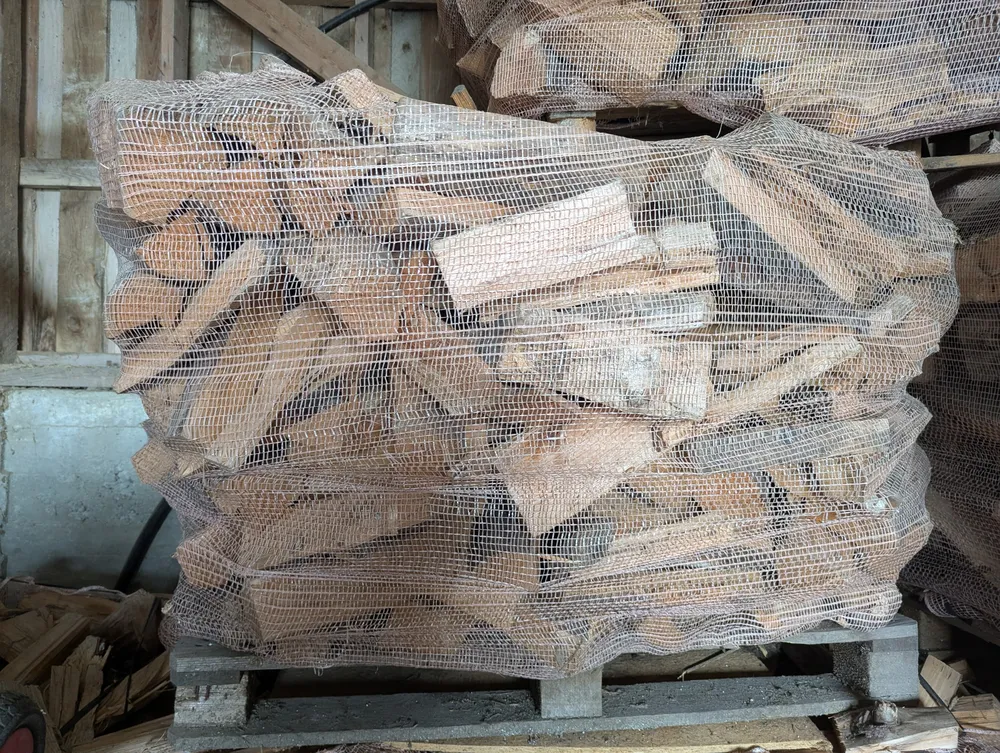
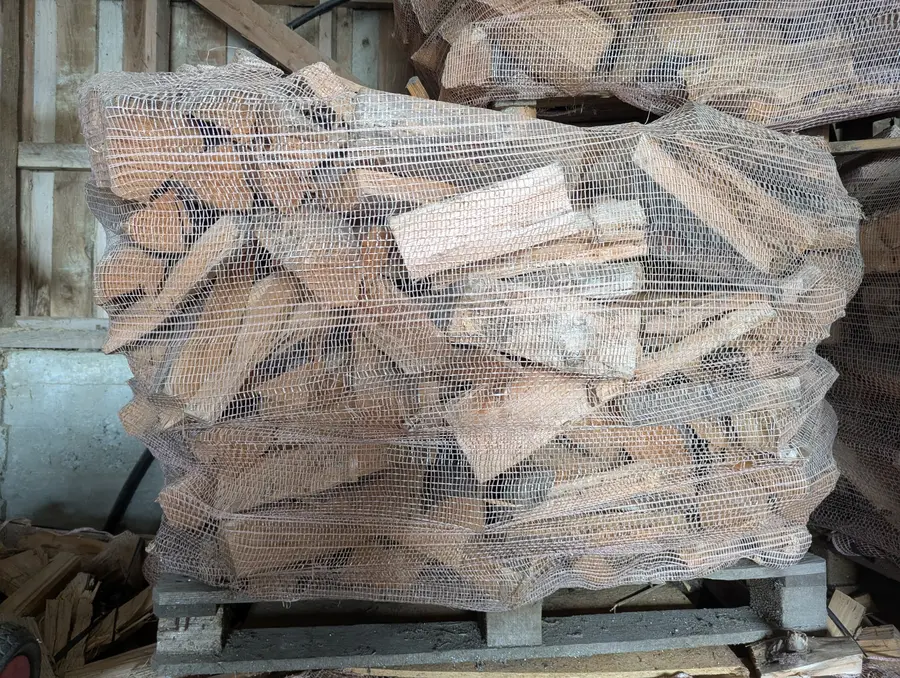
perf: further optimize images and ensure WebP usage in code

diff --git a/src/routes/+page.svelte b/src/routes/+page.svelte
@@ -32,17 +32,17 @@
 		{
 			name: 'Furu',
 			description: 'Lettantennelig og gir rask varme. Perfekt for opptenning.',
-			image: '/images/trebit-furu.jpeg'
+			image: '/images/trebit-furu.webp'
 		},
 		{
 			name: 'Bjørk',
 			description: 'Klassikeren med høy brennverdi, pen flamme og lite gnister.',
-			image: '/images/trebit-bjørk.jpeg'
+			image: '/images/trebit-bjørk.webp'
 		},
 		{
 			name: 'Gran',
 			description: 'Gnistrer litt, men gir lun god varme og er lett å fyre med.',
-			image: '/images/trebit-gran.jpeg'
+			image: '/images/trebit-gran.webp'
 		}
 	];
 
@@ -121,7 +121,7 @@
 	<meta property="og:url" content="https://haugalandsved.no" />
 	<meta
 		property="og:image"
-		content="https://haugalandsved.no/images/flere-paller-blandingsved.jpeg"
+		content="https://haugalandsved.no/images/flere-paller-blandingsved.webp"
 	/>
 </svelte:head>
 
@@ -416,8 +416,9 @@
 			<div class="mt-16 grid grid-cols-1 gap-8 md:grid-cols-2">
 				<div class="group relative overflow-hidden rounded-2xl bg-stone-100">
 					<img
-						src="/images/enkelt-palle-blandingsved.jpeg"
+						src="/images/enkelt-palle-blandingsved.webp"
 						alt="Storsekk med blandingsved"
+						loading="lazy"
 						class="h-96 w-full object-cover transition duration-500 group-hover:scale-105"
 					/>
 					<div
@@ -429,8 +430,9 @@
 				</div>
 				<div class="group relative overflow-hidden rounded-2xl bg-stone-100">
 					<img
-						src="/images/flere-paller-blandingsved.jpeg"
+						src="/images/flere-paller-blandingsved.webp"
 						alt="Flere paller med ved"
+						loading="lazy"
 						class="h-96 w-full object-cover transition duration-500 group-hover:scale-105"
 					/>
 					<div
